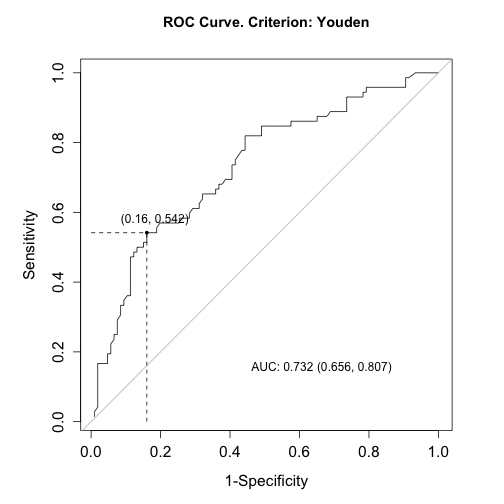
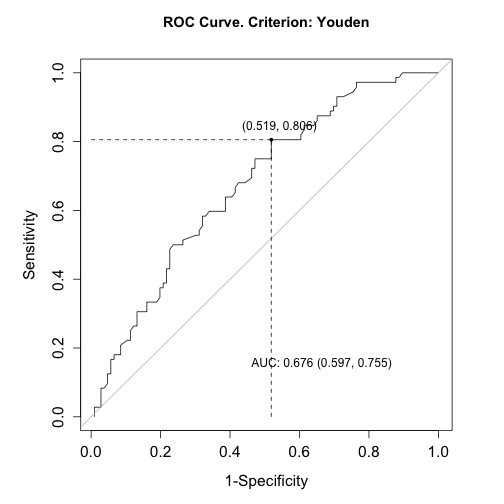
update

diff --git a/Predykcja/ROC.md b/Predykcja/ROC.md
@@ -33,11 +33,11 @@ importance(rf)
 
 ```
 ##          MeanDecreaseGini
-## Pclass          34.396544
-## Sex             88.341231
-## Age             58.222577
-## Fare            61.271870
-## Embarked         7.947573
+## Pclass          34.520624
+## Sex             87.590997
+## Age             59.034988
+## Fare            61.851399
+## Embarked         7.908397
 ```
 
 ```r
@@ -84,7 +84,7 @@ single.rocplot <- ggroc(roc.estimate)
 plot_journal_roc(single.rocplot)
 ```
 
-![plot of chunk unnamed-chunk-2](figure/unnamed-chunk-2-1.png)
+![plot of chunk rocauc](figure/rocauc-1.png)
 
 ```r
 library("ROCR")
@@ -94,7 +94,7 @@ plot(perf,col="blue")
 abline(0,1)
 ```
 
-![plot of chunk unnamed-chunk-2](figure/unnamed-chunk-2-2.png)
+![plot of chunk rocauc](figure/rocauc-2.png)
 
 Aby ocenić jakość klasyfikatora można wykorzystać całą krzywą ROC lub pole pod nią - AUC.
 
@@ -114,22 +114,22 @@ summary(oc)
 ## optimal.cutpoints.default(X = "pred", status = "truth", tag.healthy = "0", 
 ##     methods = "Youden", data = pref_df)
 ## 
-## Area under the ROC curve (AUC):  0.732 (0.656, 0.807) 
+## Area under the ROC curve (AUC):  0.676 (0.597, 0.755) 
 ## 
 ## CRITERION: Youden
 ## Number of optimal cutoffs: 1
 ## 
 ##                     Estimate
-## cutoff             0.5900000
-## Se                 0.5416667
-## Sp                 0.8396226
-## PPV                0.6964286
-## NPV                0.7295082
-## DLR.Positive       3.3774510
-## DLR.Negative       0.5458801
-## FP                17.0000000
-## FN                33.0000000
-## Optimal criterion  0.3812893
+## cutoff             0.2360000
+## Se                 0.8055556
+## Sp                 0.4811321
+## PPV                0.5132743
+## NPV                0.7846154
+## DLR.Positive       1.5525253
+## DLR.Negative       0.4041394
+## FP                55.0000000
+## FN                14.0000000
+## Optimal criterion  0.2866876
 ```
 
 ```r
